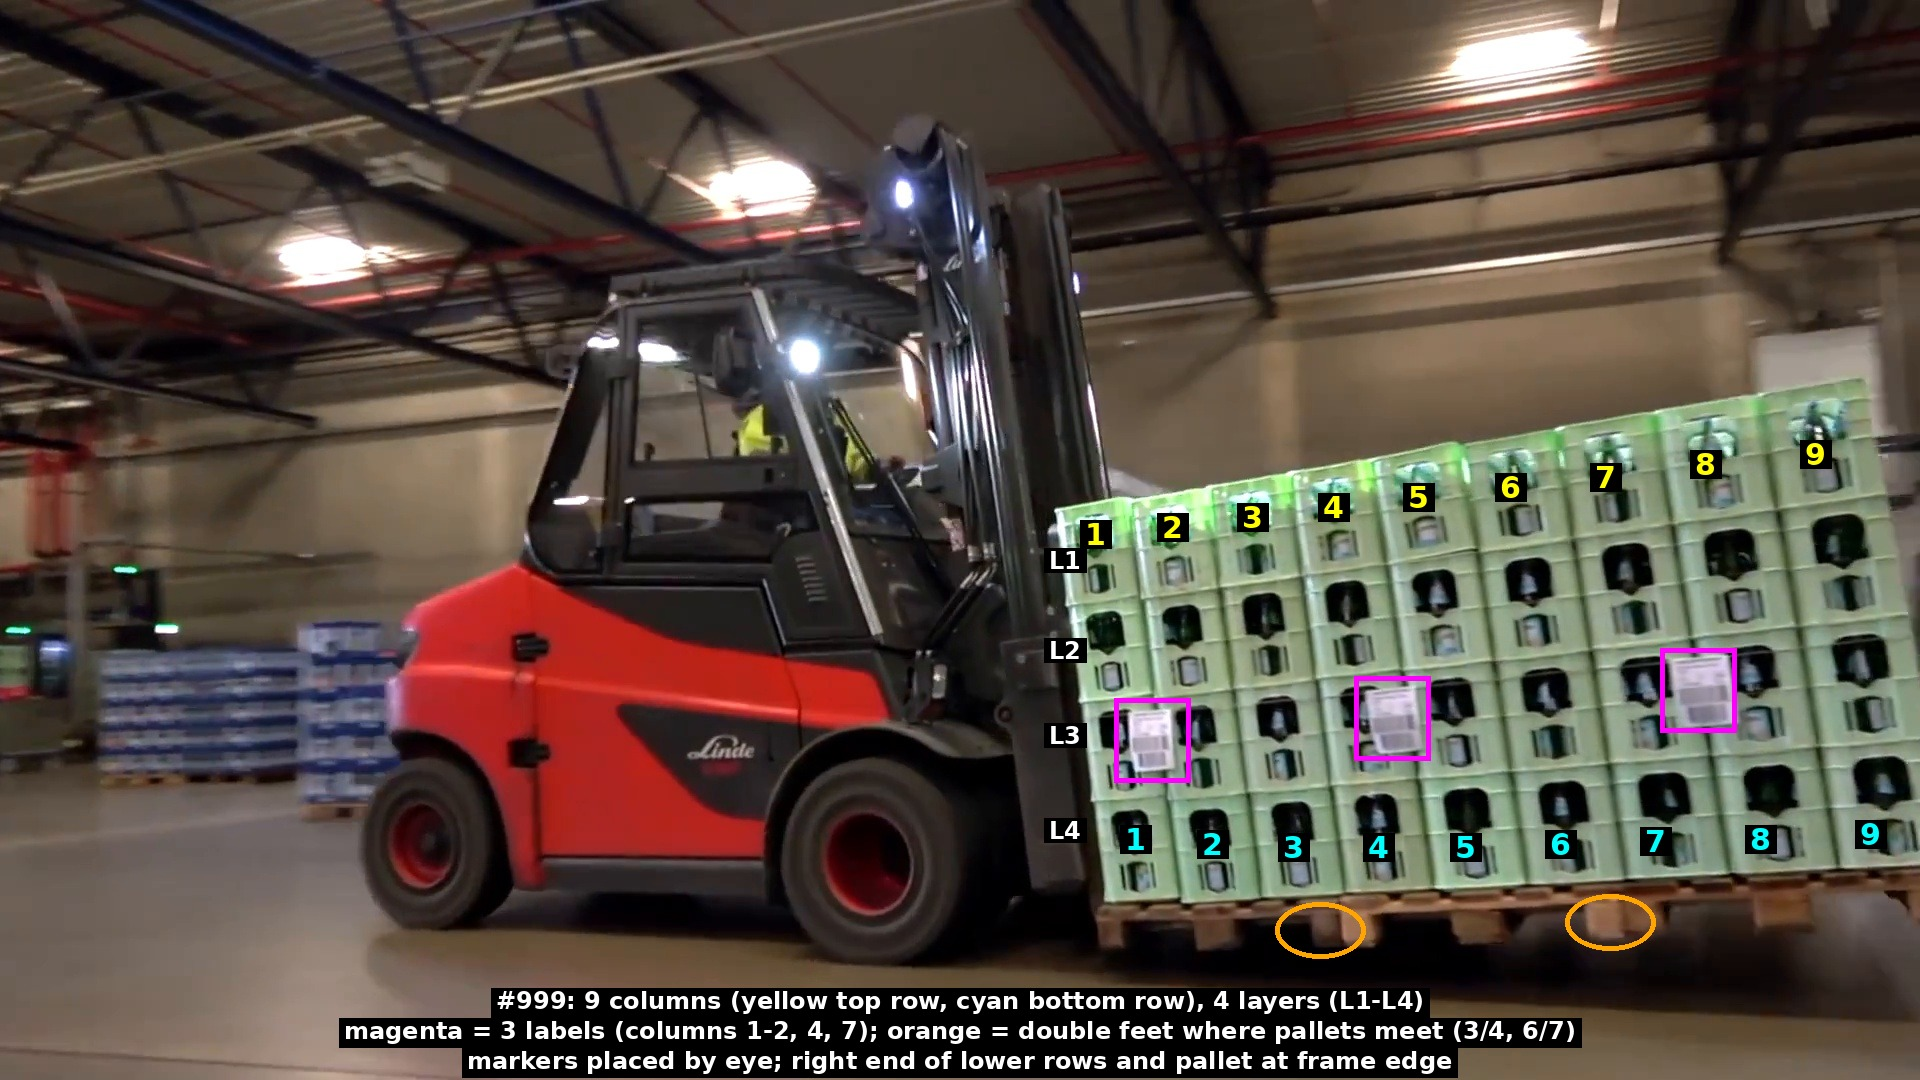
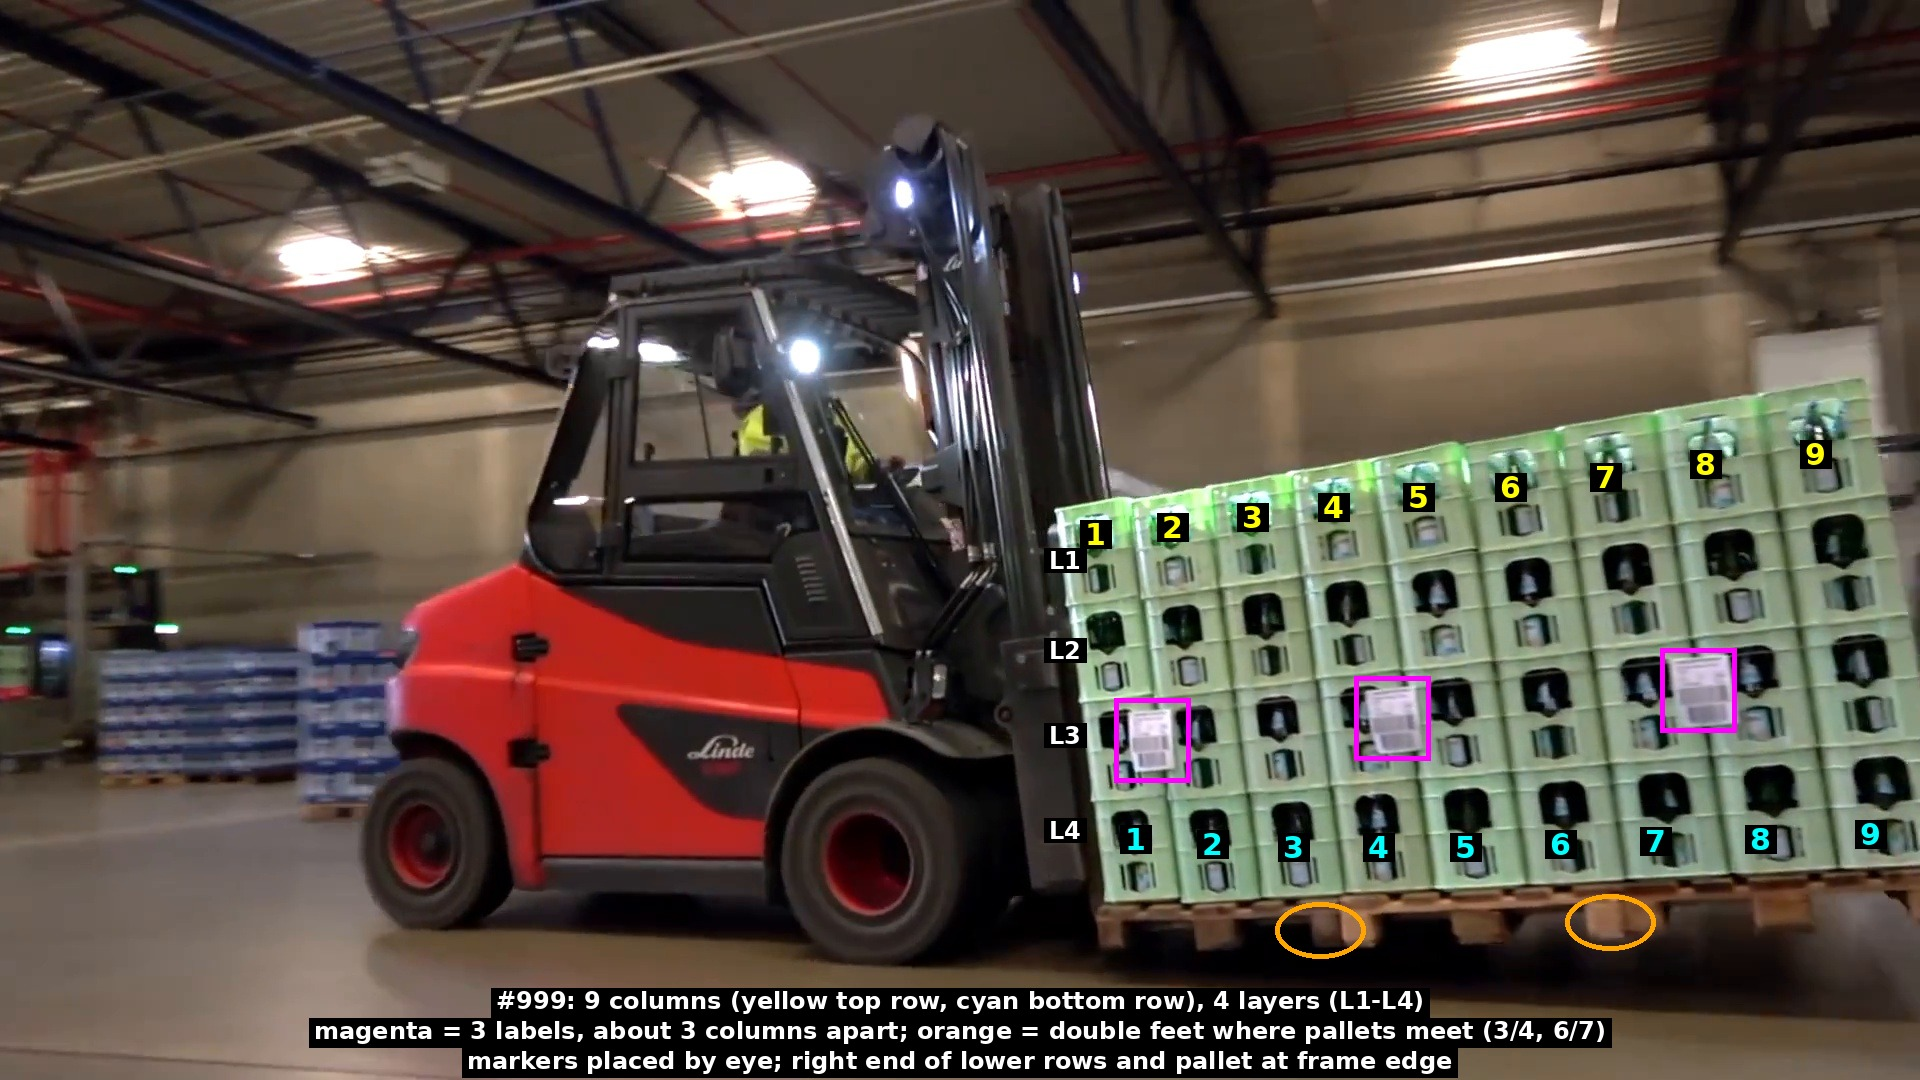
Labels "about 3 columns apart" (no exact columns); uncertainty.py docstring matches README

Changed region(s): [[0.1562, 0.9472, 0.8438, 0.9778]]

diff --git a/src/annotate_counts.py b/src/annotate_counts.py
@@ -1,7 +1,7 @@
 """Draw the crate counts on frame #999 (outputs/A_00999_counts.jpg).
 
 Counts were made by eye on the zoomed frame: 9 columns (top and bottom row), 4 layers,
-3 labels (columns 1-2, 4, 7), double pallet feet between columns 3/4 and 6/7.
+3 labels about 3 columns apart, double pallet feet between columns 3/4 and 6/7.
 Marker positions are approximate pixel positions, placed by eye; they illustrate the
 count and are not measurements.
 """
@@ -46,7 +46,7 @@ def main():
         d.ellipse((x - 45, y - 28, x + 45, y + 28), outline="orange", width=5)
 
     legend = ["#999: 9 columns (yellow top row, cyan bottom row), 4 layers (L1-L4)",
-              "magenta = 3 labels (columns 1-2, 4, 7); orange = double feet where pallets meet (3/4, 6/7)",
+              "magenta = 3 labels, about 3 columns apart; orange = double feet where pallets meet (3/4, 6/7)",
               "markers placed by eye; right end of lower rows and pallet at frame edge"]
     for k, line in enumerate(legend):
         tag((960, 1000 + k * 30), line, "white", fs)

diff --git a/src/uncertainty.py b/src/uncertainty.py
@@ -1,4 +1,4 @@
-"""Step 4: Monte Carlo (10,000 runs) for the load volume. Two scenarios side by side, neither is "main": C (length from clicks + truck geometry) and B (length from the crate count, height from crate heights). A (one EUR pallet) is excluded by the clicks.
+"""Step 4: Monte Carlo (10,000 runs) for the load volume. D (3 pallets, from the crate counts) is the most likely scenario, but it is not proven; B (length from the crate count, height from crate heights) and C (length from clicks + truck geometry) are kept for comparison. A (one EUR pallet) is excluded by the clicks.
 Plain idea: every input that we are not sure about gets a range; each run draws one value for each, computes the volume, and we
 look at the spread of the 10,000 results. All ranges are ASSUMPTIONS written in README.md. Nothing here decides which case is true.
 Clicks vary independently per frame; the other inputs (scale bias, lens, fill, tolerances) are shared by the three frames, because
